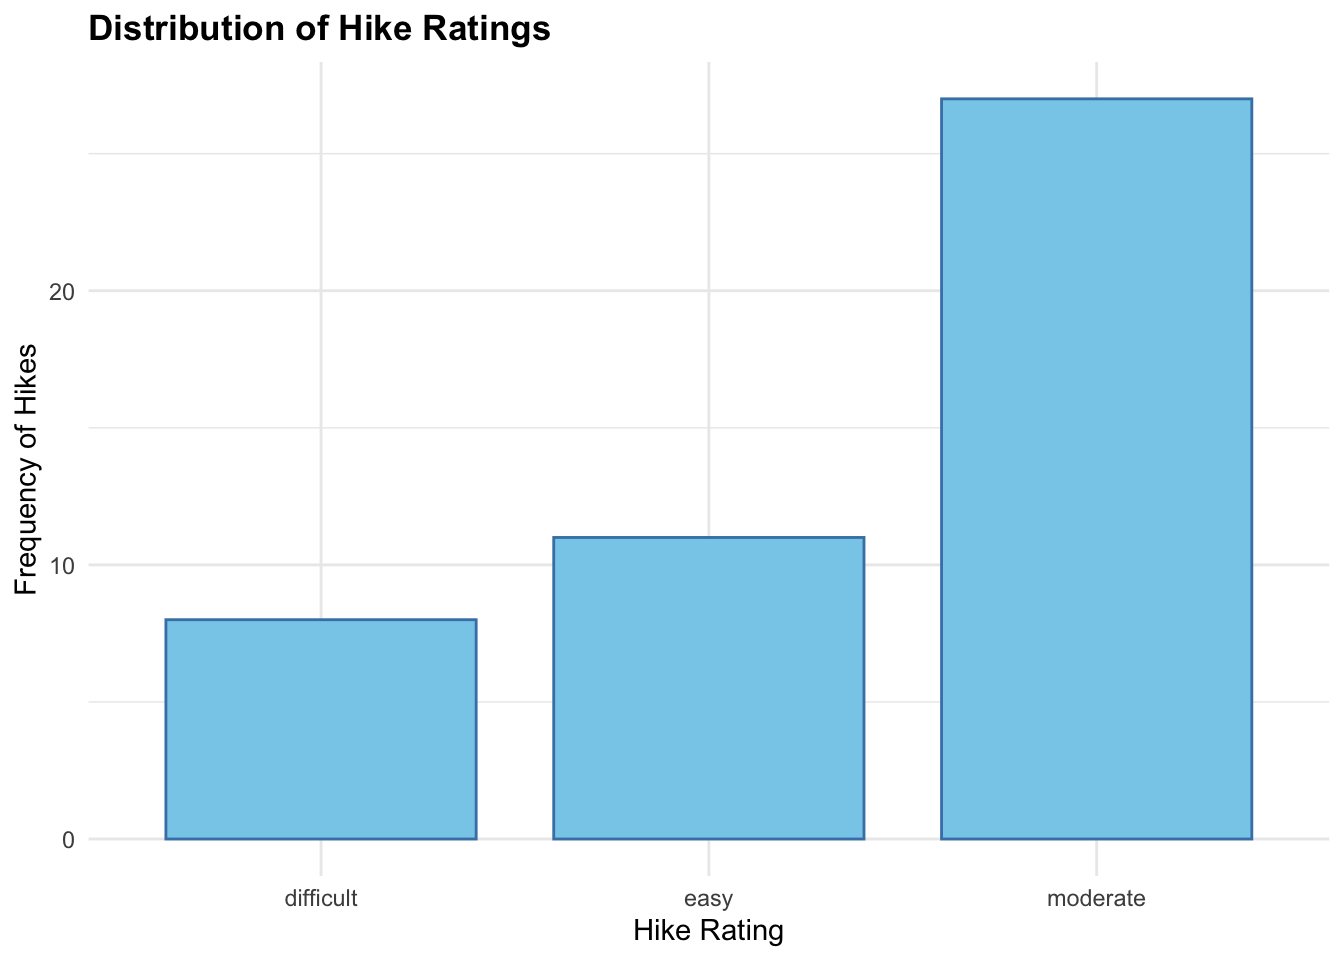
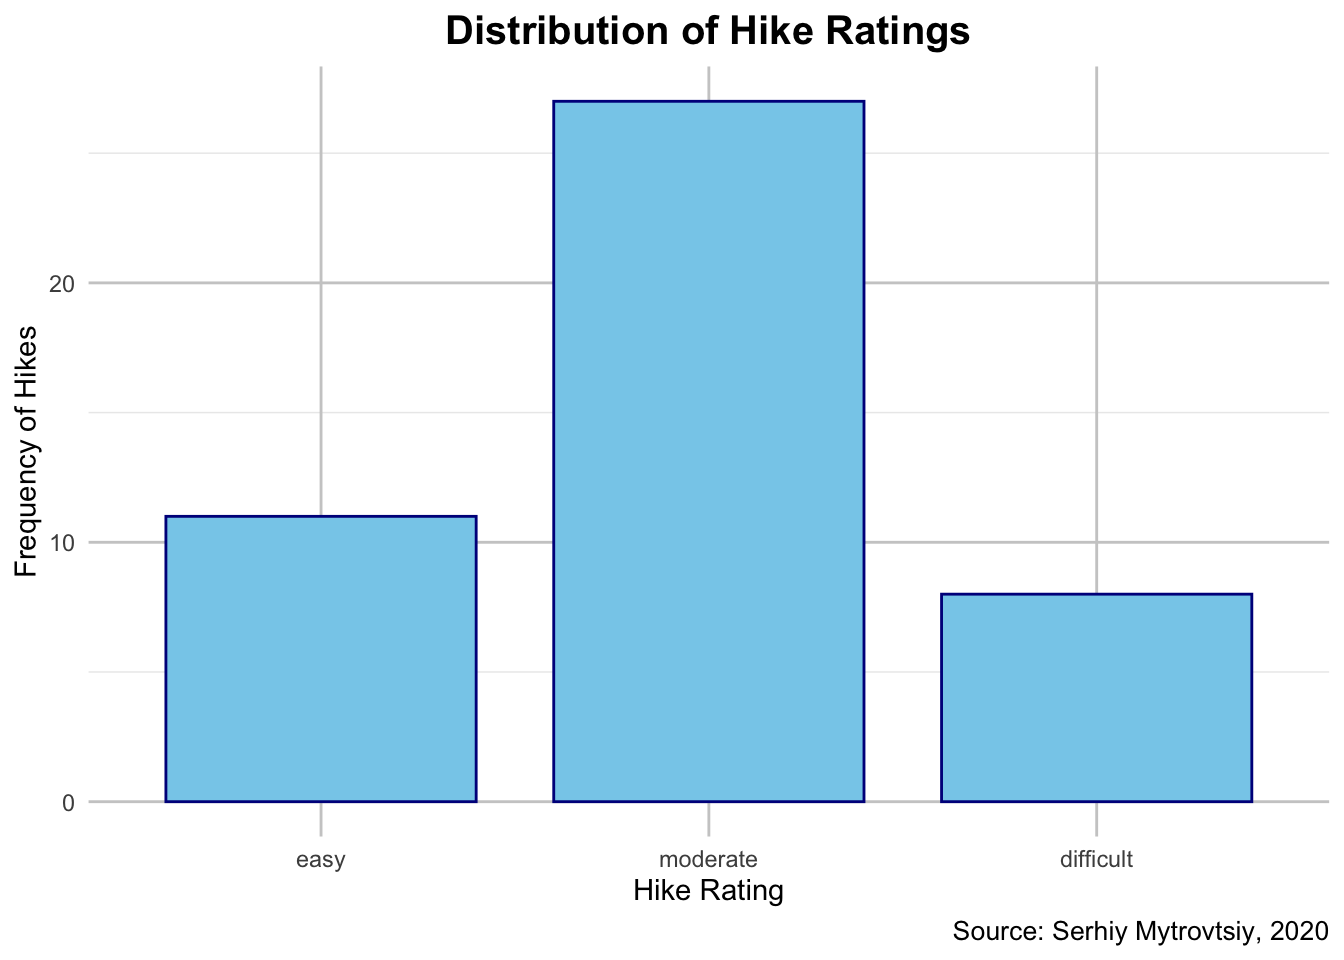
Built site for gh-pages

diff --git a/bw/bw-uni.html b/bw/bw-uni.html
@@ -262,15 +262,21 @@ pre > code.sourceCode > span > a:first-child::before { text-decoration: underlin
 <span id="cb1-6"><a href="#cb1-6"></a><span class="co"># Download Tidyverse</span></span>
 <span id="cb1-7"><a href="#cb1-7"></a><span class="fu">library</span>(tidyverse)</span>
 <span id="cb1-8"><a href="#cb1-8"></a></span>
-<span id="cb1-9"><a href="#cb1-9"></a><span class="co"># Create Univariate Visualization with improvements</span></span>
-<span id="cb1-10"><a href="#cb1-10"></a><span class="fu">ggplot</span>(hikes, <span class="fu">aes</span>(<span class="at">x =</span> rating)) <span class="sc">+</span></span>
-<span id="cb1-11"><a href="#cb1-11"></a>  <span class="fu">geom_bar</span>(<span class="at">color =</span> <span class="st">"steelblue"</span>, <span class="at">fill =</span> <span class="st">"skyblue"</span>, <span class="at">width =</span> <span class="fl">0.8</span>) <span class="sc">+</span>   <span class="co"># Adjust colors and width</span></span>
-<span id="cb1-12"><a href="#cb1-12"></a>  <span class="fu">labs</span>(</span>
-<span id="cb1-13"><a href="#cb1-13"></a>    <span class="at">title =</span> <span class="st">"Distribution of Hike Ratings"</span>,                        <span class="co"># Add title</span></span>
-<span id="cb1-14"><a href="#cb1-14"></a>    <span class="at">x =</span> <span class="st">"Hike Rating"</span>,                                             <span class="co"># Label x-axis</span></span>
-<span id="cb1-15"><a href="#cb1-15"></a>    <span class="at">y =</span> <span class="st">"Frequency of Hikes"</span>) <span class="sc">+</span>                                    <span class="co"># Label y-axis</span></span>
-<span id="cb1-16"><a href="#cb1-16"></a>  <span class="fu">theme_minimal</span>() <span class="sc">+</span>                                                <span class="co"># Clean background</span></span>
-<span id="cb1-17"><a href="#cb1-17"></a>  <span class="fu">theme</span>(<span class="at">plot.title =</span> <span class="fu">element_text</span>(<span class="at">face =</span> <span class="st">"bold"</span>))                  <span class="co"># Make the title bold</span></span></code><button title="Copy to Clipboard" class="code-copy-button"><i class="bi"></i></button></pre></div>
+<span id="cb1-9"><a href="#cb1-9"></a><span class="co">#Reorder Rating</span></span>
+<span id="cb1-10"><a href="#cb1-10"></a>hikes<span class="sc">$</span>rating <span class="ot">&lt;-</span> <span class="fu">factor</span>(hikes<span class="sc">$</span>rating, <span class="at">levels =</span> <span class="fu">c</span>(<span class="st">"easy"</span>, <span class="st">"moderate"</span>, <span class="st">"difficult"</span>))</span>
+<span id="cb1-11"><a href="#cb1-11"></a></span>
+<span id="cb1-12"><a href="#cb1-12"></a><span class="co"># Create Univariate Visualization with improvements</span></span>
+<span id="cb1-13"><a href="#cb1-13"></a><span class="fu">ggplot</span>(hikes, <span class="fu">aes</span>(<span class="at">x =</span> rating)) <span class="sc">+</span></span>
+<span id="cb1-14"><a href="#cb1-14"></a>  <span class="fu">geom_bar</span>(<span class="at">color =</span> <span class="st">"darkblue"</span>, <span class="at">fill =</span> <span class="st">"skyblue"</span>, <span class="at">width =</span> <span class="fl">0.8</span>) <span class="sc">+</span>              <span class="co"># Adjust colors and width</span></span>
+<span id="cb1-15"><a href="#cb1-15"></a>  <span class="fu">labs</span>(</span>
+<span id="cb1-16"><a href="#cb1-16"></a>    <span class="at">title =</span> <span class="st">"Distribution of Hike Ratings"</span>,                                   <span class="co"># Add title</span></span>
+<span id="cb1-17"><a href="#cb1-17"></a>    <span class="at">x =</span> <span class="st">"Hike Rating"</span>,                                                        <span class="co"># Label x-axis</span></span>
+<span id="cb1-18"><a href="#cb1-18"></a>    <span class="at">y =</span> <span class="st">"Frequency of Hikes"</span>,                                                 <span class="co"># Label y-axis</span></span>
+<span id="cb1-19"><a href="#cb1-19"></a>    <span class="at">caption =</span> <span class="st">"Source: Serhiy Mytrovtsiy, 2020"</span>) <span class="sc">+</span>                            <span class="co"># Add source info</span></span>
+<span id="cb1-20"><a href="#cb1-20"></a>  <span class="fu">theme_minimal</span>() <span class="sc">+</span>                                                           <span class="co"># Clean background</span></span>
+<span id="cb1-21"><a href="#cb1-21"></a>  <span class="fu">theme</span>(<span class="at">plot.title =</span> <span class="fu">element_text</span>(<span class="at">face =</span> <span class="st">"bold"</span>, <span class="at">size =</span> <span class="dv">15</span>, <span class="at">hjust =</span> <span class="fl">0.5</span>),     <span class="co"># Make the title bold</span></span>
+<span id="cb1-22"><a href="#cb1-22"></a>        <span class="at">plot.caption =</span> <span class="fu">element_text</span>(<span class="at">size =</span> <span class="dv">10</span>),                               <span class="co"># Adjust size of  caption </span></span>
+<span id="cb1-23"><a href="#cb1-23"></a>        <span class="at">panel.grid.major =</span> <span class="fu">element_line</span>(<span class="at">color =</span> <span class="st">"gray80"</span>))                    <span class="co"># Adjust grid lines</span></span></code><button title="Copy to Clipboard" class="code-copy-button"><i class="bi"></i></button></pre></div>
 </details><div class="cell-output-display">
 <p><img src="bw-uni_files/figure-html/unnamed-chunk-1-1.png" class="img-fluid" width="672"></p>
 </div>
@@ -726,16 +732,22 @@ window.document.addEventListener("DOMContentLoaded", function (event) {
 <span id="cb2-23"><a href="#cb2-23"></a><span class="co"># Download Tidyverse</span></span>
 <span id="cb2-24"><a href="#cb2-24"></a><span class="fu">library</span>(tidyverse)</span>
 <span id="cb2-25"><a href="#cb2-25"></a></span>
-<span id="cb2-26"><a href="#cb2-26"></a><span class="co"># Create Univariate Visualization with improvements</span></span>
-<span id="cb2-27"><a href="#cb2-27"></a><span class="fu">ggplot</span>(hikes, <span class="fu">aes</span>(<span class="at">x =</span> rating)) <span class="sc">+</span></span>
-<span id="cb2-28"><a href="#cb2-28"></a>  <span class="fu">geom_bar</span>(<span class="at">color =</span> <span class="st">"steelblue"</span>, <span class="at">fill =</span> <span class="st">"skyblue"</span>, <span class="at">width =</span> <span class="fl">0.8</span>) <span class="sc">+</span>   <span class="co"># Adjust colors and width</span></span>
-<span id="cb2-29"><a href="#cb2-29"></a>  <span class="fu">labs</span>(</span>
-<span id="cb2-30"><a href="#cb2-30"></a>    <span class="at">title =</span> <span class="st">"Distribution of Hike Ratings"</span>,                        <span class="co"># Add title</span></span>
-<span id="cb2-31"><a href="#cb2-31"></a>    <span class="at">x =</span> <span class="st">"Hike Rating"</span>,                                             <span class="co"># Label x-axis</span></span>
-<span id="cb2-32"><a href="#cb2-32"></a>    <span class="at">y =</span> <span class="st">"Frequency of Hikes"</span>) <span class="sc">+</span>                                    <span class="co"># Label y-axis</span></span>
-<span id="cb2-33"><a href="#cb2-33"></a>  <span class="fu">theme_minimal</span>() <span class="sc">+</span>                                                <span class="co"># Clean background</span></span>
-<span id="cb2-34"><a href="#cb2-34"></a>  <span class="fu">theme</span>(<span class="at">plot.title =</span> <span class="fu">element_text</span>(<span class="at">face =</span> <span class="st">"bold"</span>))                  <span class="co"># Make the title bold</span></span>
-<span id="cb2-35"><a href="#cb2-35"></a><span class="in">```</span></span>
+<span id="cb2-26"><a href="#cb2-26"></a><span class="co">#Reorder Rating</span></span>
+<span id="cb2-27"><a href="#cb2-27"></a>hikes<span class="sc">$</span>rating <span class="ot">&lt;-</span> <span class="fu">factor</span>(hikes<span class="sc">$</span>rating, <span class="at">levels =</span> <span class="fu">c</span>(<span class="st">"easy"</span>, <span class="st">"moderate"</span>, <span class="st">"difficult"</span>))</span>
+<span id="cb2-28"><a href="#cb2-28"></a></span>
+<span id="cb2-29"><a href="#cb2-29"></a><span class="co"># Create Univariate Visualization with improvements</span></span>
+<span id="cb2-30"><a href="#cb2-30"></a><span class="fu">ggplot</span>(hikes, <span class="fu">aes</span>(<span class="at">x =</span> rating)) <span class="sc">+</span></span>
+<span id="cb2-31"><a href="#cb2-31"></a>  <span class="fu">geom_bar</span>(<span class="at">color =</span> <span class="st">"darkblue"</span>, <span class="at">fill =</span> <span class="st">"skyblue"</span>, <span class="at">width =</span> <span class="fl">0.8</span>) <span class="sc">+</span>              <span class="co"># Adjust colors and width</span></span>
+<span id="cb2-32"><a href="#cb2-32"></a>  <span class="fu">labs</span>(</span>
+<span id="cb2-33"><a href="#cb2-33"></a>    <span class="at">title =</span> <span class="st">"Distribution of Hike Ratings"</span>,                                   <span class="co"># Add title</span></span>
+<span id="cb2-34"><a href="#cb2-34"></a>    <span class="at">x =</span> <span class="st">"Hike Rating"</span>,                                                        <span class="co"># Label x-axis</span></span>
+<span id="cb2-35"><a href="#cb2-35"></a>    <span class="at">y =</span> <span class="st">"Frequency of Hikes"</span>,                                                 <span class="co"># Label y-axis</span></span>
+<span id="cb2-36"><a href="#cb2-36"></a>    <span class="at">caption =</span> <span class="st">"Source: Serhiy Mytrovtsiy, 2020"</span>) <span class="sc">+</span>                            <span class="co"># Add source info</span></span>
+<span id="cb2-37"><a href="#cb2-37"></a>  <span class="fu">theme_minimal</span>() <span class="sc">+</span>                                                           <span class="co"># Clean background</span></span>
+<span id="cb2-38"><a href="#cb2-38"></a>  <span class="fu">theme</span>(<span class="at">plot.title =</span> <span class="fu">element_text</span>(<span class="at">face =</span> <span class="st">"bold"</span>, <span class="at">size =</span> <span class="dv">15</span>, <span class="at">hjust =</span> <span class="fl">0.5</span>),     <span class="co"># Make the title bold</span></span>
+<span id="cb2-39"><a href="#cb2-39"></a>        <span class="at">plot.caption =</span> <span class="fu">element_text</span>(<span class="at">size =</span> <span class="dv">10</span>),                               <span class="co"># Adjust size of  caption </span></span>
+<span id="cb2-40"><a href="#cb2-40"></a>        <span class="at">panel.grid.major =</span> <span class="fu">element_line</span>(<span class="at">color =</span> <span class="st">"gray80"</span>))                    <span class="co"># Adjust grid lines</span></span>
+<span id="cb2-41"><a href="#cb2-41"></a><span class="in">```</span></span>
 </code><button title="Copy to Clipboard" class="code-copy-button"><i class="bi"></i></button></pre></div>
 </div></div></div></div></div>
 </div> <!-- /content -->
